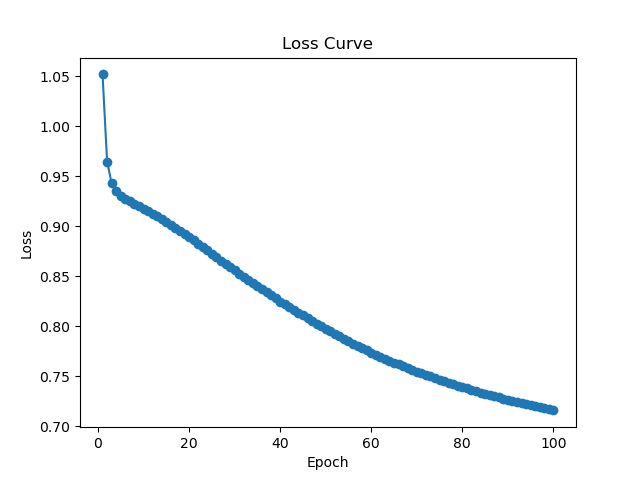
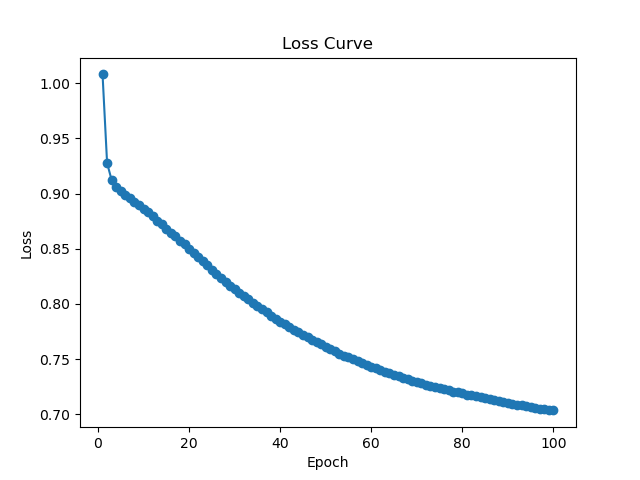
advance MLP added

diff --git a/Chapter6/secondaryStructureMLP.py b/Chapter6/secondaryStructureMLP.py
@@ -8,6 +8,8 @@ import random
 from collections import Counter
 from torch.utils.data import DataLoader, TensorDataset
 import matplotlib.pyplot as plt
+import torch.nn.functional as F
+from sklearn.metrics import confusion_matrix
 
 amino_acids = ['Ala', 'Arg', 'Asn', 'Asp', 'Cys', 'Gln', 'Glu', 'Gly', 'His', 'Ile', 'Leu', 'Lys', 'Met', 'Phe', 'Pro', 'Ser', 'Thr', 'Trp', 'Tyr', 'Val']
 alphabet_size = len(amino_acids) + 1
@@ -94,11 +96,38 @@ class SimpleMLP(nn.Module):
         x = self.sigmoid(x)
         return x
 
+class AdvancedMLP(nn.Module):
+    def __init__(self, input_size, hidden_size1, hidden_size2, output_size):
+        super(AdvancedMLP, self).__init__()
+        self.fc1 = nn.Linear(input_size, hidden_size1)
+        self.bn1 = nn.BatchNorm1d(hidden_size1)
+        self.dropout1 = nn.Dropout(0.5)
+        
+        self.fc2 = nn.Linear(hidden_size1, hidden_size2)
+        self.bn2 = nn.BatchNorm1d(hidden_size2)
+        self.dropout2 = nn.Dropout(0.5)
+        
+        self.fc3 = nn.Linear(hidden_size2, output_size)
+        
+    def forward(self, x):
+        x = self.fc1(x)
+        x = self.bn1(x)
+        x = F.relu(x)
+        x = self.dropout1(x)
+        
+        x = self.fc2(x)
+        x = self.bn2(x)
+        x = F.relu(x)
+        x = self.dropout2(x)
+        
+        x = self.fc3(x)
+        return x
+    
 def prepare_data_loader(X, y, batch_size):
     dataset = TensorDataset(torch.tensor(np.array(X), dtype=torch.float32), torch.tensor(np.array(y), dtype=torch.long))
     return DataLoader(dataset, batch_size=batch_size, shuffle=True)
 
-batch_size = 32
+batch_size = 16
 train_loader = prepare_data_loader(X_train, y_train, batch_size)
 test_loader = prepare_data_loader(X_test, y_test, batch_size)
 
@@ -106,7 +135,11 @@ input_size = window_size * alphabet_size
 hidden_size = 40
 output_size = 3
 
-model = SimpleMLP(input_size=input_size, hidden_size=hidden_size, output_size=output_size)
+hidden_size1 = 128
+hidden_size2 = 64
+model = AdvancedMLP(input_size=input_size, hidden_size1=hidden_size1, hidden_size2=hidden_size2, output_size=output_size)
+
+#model = SimpleMLP(input_size=input_size, hidden_size=hidden_size, output_size=output_size)
 criterion = nn.CrossEntropyLoss()
 optimizer = optim.Adam(model.parameters(), lr=0.001)
 
@@ -131,7 +164,7 @@ plt.plot(range(1, num_epochs + 1), losses, marker='o')
 plt.xlabel('Epoch')
 plt.ylabel('Loss')
 plt.title('Loss Curve')
-plt.savefig('loss_plot_MLP_Secondary_struc.png')
+plt.savefig('loss_plot_AdvncedMLP_Secondary_struc.png')
 plt.show()
 
 model.eval()
@@ -147,3 +180,42 @@ with torch.no_grad():
 report = classification_report(y_true, y_pred, target_names=['alpha-helix', 'beta-sheet', 'coil'])
 print("Classification Report:")
 print(report)
+
+cm = confusion_matrix(y_true,y_pred,labels=[0,1,2])
+PX = np.diag(cm) # True Positive
+PfX = np.sum(cm, axis=0) - PX # False Positive
+NX = np.sum(cm, axis=1) - PX
+NfX = np.sum(cm) - (PX + PfX + NX)
+C_X = np.zeros(3)  
+for i in range(3):
+    numerator = (PX[i] * NX[i]) - (NfX[i] * PfX[i])
+    denominator = ((NX[i] + NfX[i]) * (NX[i] + PfX[i]) * (PX[i] + NfX[i]) * (PX[i] + PfX[i]))
+    if denominator == 0:
+        C_X[i] = 0
+    else:
+        C_X[i] = numerator / denominator
+
+print("Confusion Matrix:\n", cm)
+print(f"CX for alpha-helix: {C_X[0]}")
+print(f"CX for beta-sheet: {C_X[1]}")
+print(f"CX for coil: {C_X[2]}")
+
+"""
+Confussion Matrix for SimpleMLP:
+ [[464  85 357]
+ [122 281 281]
+ [268 186 956]]
+
+ Classification Report for SimpleMLP:
+              precision    recall  f1-score   support
+
+ alpha-helix       0.54      0.51      0.53       906
+  beta-sheet       0.51      0.41      0.45       684
+        coil       0.60      0.68      0.64      1410
+
+    accuracy                           0.57      3000
+   macro avg       0.55      0.53      0.54      3000
+weighted avg       0.56      0.57      0.56      3000
+
+
+"""
